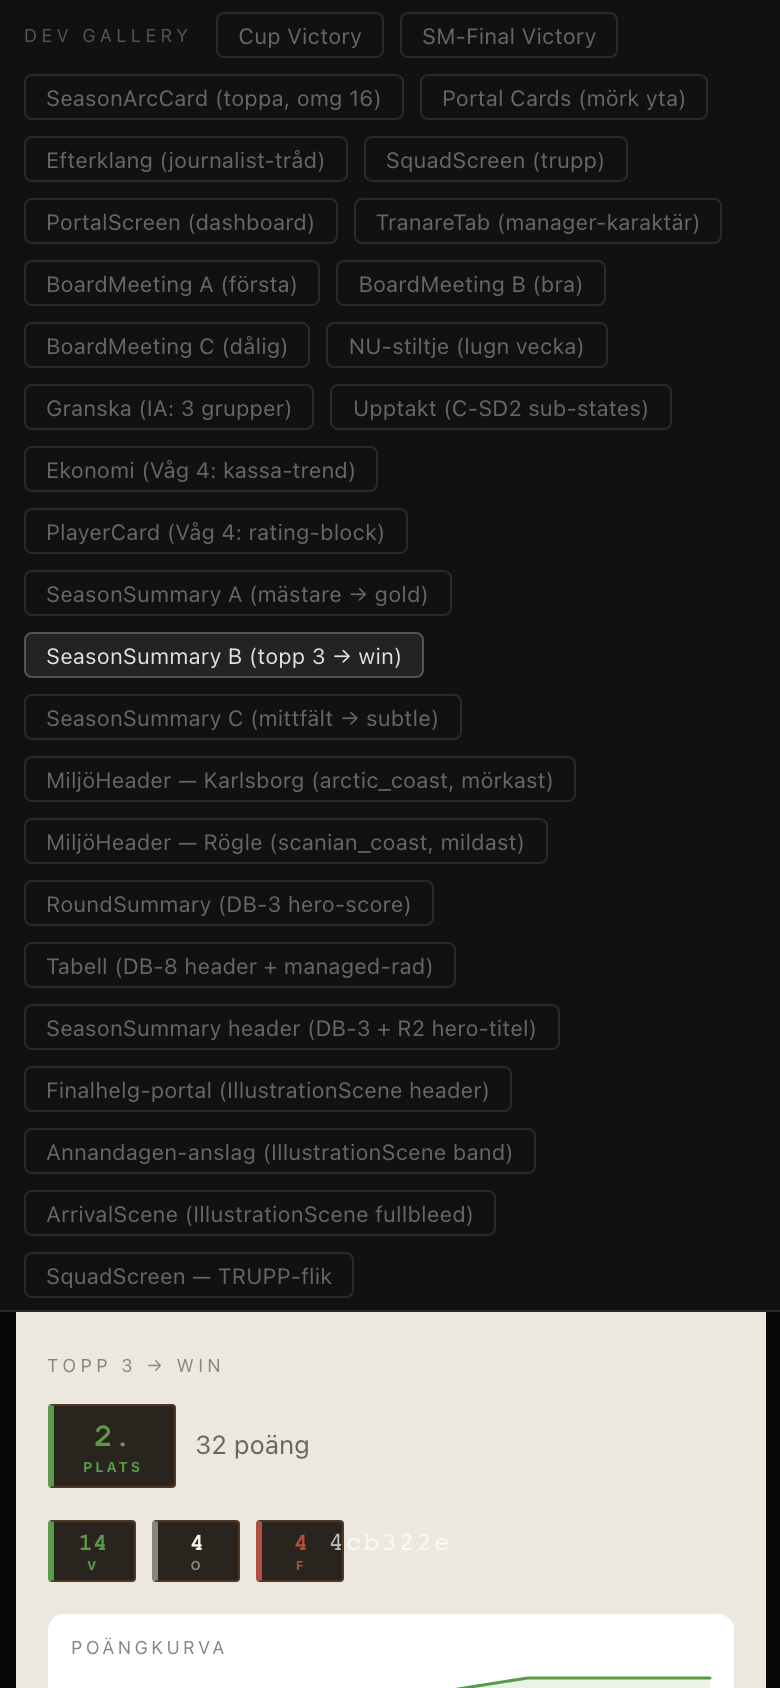
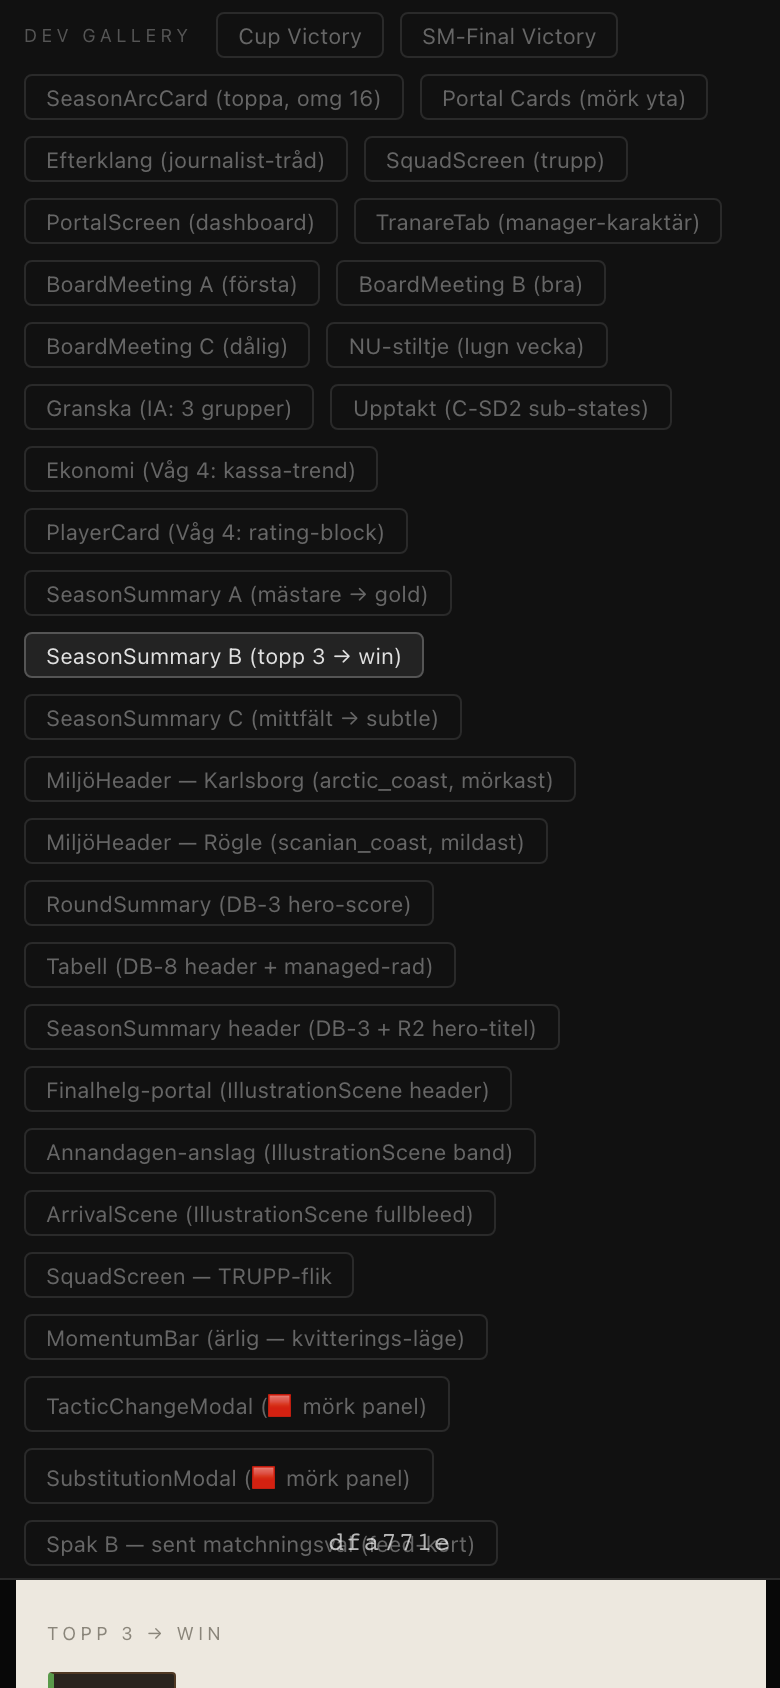
feat: Spår A dev-scener + bilaga — MomentumBar, 🟥-modaler, Spak B (32 ytor)
Pixelpass-underlag (SPEC-SPAK-AB §E.3): egna /dev/scenes för de nya MatchLive-ytorna
så de fångas i bilagan. Deterministisk fingerad state (cast MatchStep för baren,
makePlayer för sub-modalen). De två modal-scenerna får translateZ(0)-wrapper så
position:fixed fångas i ram (samma grepp som annandagen).

audit:scenes: 32 ytor, alla ✓ (renderar, ingen error-boundary). momentumbar visar
kvitterings-läget (nål=homeInitiative 0.63, brett band, amber brytpunkt); tacticmodal/
submodal mörk Stålvallen-panel; spakb feed-kortet.

OBS: perception-sign-off (animering, Spak B tänd i levande feed, glow, bar i full
stack) kräver Jacobs manuella playtest — MatchLiveScreen-rendering är playtest-
obligatorisk per CLAUDE.md (kod-simulation räcker inte för perception-tunga vyer).

build grönt (dev-scener är DEV-gated, ej i prod-bundle).

Changed region(s): [[0.0, 0.7701, 0.9846, 1.0]]

diff --git a/src/presentation/screens/dev/DevScenesScreen.tsx b/src/presentation/screens/dev/DevScenesScreen.tsx
@@ -32,10 +32,16 @@ import { PlayerCard } from '../../components/PlayerCard'
 import { ScoreBlock as ScoreBlockComp } from '../../components/primitives/ScoreBlock'
 import { Sparkline as SparklineComp } from '../../components/primitives/Sparkline'
 import { MiljoHeader } from '../../components/environment/MiljoHeader'
+import { MomentumBar } from '../../components/match/MomentumBar'
+import { TacticChangeModal } from '../../components/match/TacticChangeModal'
+import { SubstitutionModal } from '../../components/match/SubstitutionModal'
+import { SentValCard } from '../../components/match/SentValCard'
+import type { MatchStep } from '../../../domain/services/matchSimulator'
 import { useGameStore } from '../../store/gameStore'
 
 type SceneId = 'cup-victory' | 'sm-victory' | 'season-arc' | 'portal-cards' | 'efterklang' | 'squad' | 'portal' | 'tranare' | 'board-a' | 'board-b' | 'board-c' | 'stillness' | 'granska' | 'upptakt' | 'ekonomi' | 'playercard' | 'season-a' | 'season-b' | 'season-c' | 'miljoheader-karlsborg' | 'miljoheader-rogle'
   | 'roundsummary' | 'tabell' | 'season-header' | 'finalhelg' | 'annandagen' | 'arrival' | 'squad-trupp'
+  | 'momentumbar' | 'tacticmodal' | 'submodal' | 'spakb'
 
 const SCENES: { id: SceneId; label: string }[] = [
   { id: 'cup-victory',  label: 'Cup Victory' },
@@ -66,6 +72,10 @@ const SCENES: { id: SceneId; label: string }[] = [
   { id: 'annandagen',    label: 'Annandagen-anslag (IllustrationScene band)' },
   { id: 'arrival',       label: 'ArrivalScene (IllustrationScene fullbleed)' },
   { id: 'squad-trupp',   label: 'SquadScreen — TRUPP-flik' },
+  { id: 'momentumbar',   label: 'MomentumBar (ärlig — kvitterings-läge)' },
+  { id: 'tacticmodal',   label: 'TacticChangeModal (🟥 mörk panel)' },
+  { id: 'submodal',      label: 'SubstitutionModal (🟥 mörk panel)' },
+  { id: 'spakb',         label: 'Spak B — sent matchningsval (feed-kort)' },
 ]
 
 // ── Fingered data ────────────────────────────────────────────────────────────
@@ -715,6 +725,53 @@ export function DevScenesScreen() {
                 <div style={{ padding: '0 14px' }}><NextMatchPrimary game={g} /></div>
               </div>
             ))}
+          </div>
+        )}
+
+        {/* Spår A — MatchLive-ytor (deterministisk fingerad state) */}
+        {scene === 'momentumbar' && (() => {
+          const devStep = {
+            step: 50, minute: 67, homeScore: 2, awayScore: 2,
+            shotsHome: 9, shotsAway: 7, cornersHome: 4, cornersAway: 3, intensity: 'high',
+            homeInitiative: 0.63, postBreakUrgency: 0, postEqualizerMomentum: 0.5,
+            postEqualizerTeam: 'home', lateFactor: 0.5, matchProfile: 'open_game', events: [],
+          } as unknown as MatchStep
+          const history = [0.5, 0.52, 0.48, 0.45, 0.5, 0.58, 0.63]
+          return (
+            <div style={{ background: 'var(--bg-deepdark)', minHeight: '812px', padding: '40px 12px' }}>
+              <MomentumBar step={devStep} homeShort="EBK" awayShort="BGF" history={history} />
+            </div>
+          )
+        })()}
+
+        {scene === 'tacticmodal' && (
+          <div style={{ background: 'var(--bg-deepdark)', minHeight: '812px', transform: 'translateZ(0)', position: 'relative' }}>
+            <TacticChangeModal changesLeft={2} onChoose={() => {}} onClose={() => {}} />
+          </div>
+        )}
+
+        {scene === 'submodal' && (() => {
+          const P = PlayerPosition
+          const starters = [
+            makePlayer('s1', 'Erik', 'Lund', 27, P.Goalkeeper, 68, { fitness: 82 }),
+            makePlayer('s2', 'Johan', 'Berg', 24, P.Defender, 64, { fitness: 71 }),
+            makePlayer('s3', 'Anton', 'Sjö', 29, P.Half, 66, { fitness: 58 }),
+            makePlayer('s4', 'Nils', 'Holm', 22, P.Forward, 70, { fitness: 44 }),
+          ] as never[]
+          const bench = [
+            makePlayer('b1', 'Olle', 'Ek', 20, P.Forward, 61, { fitness: 90 }),
+            makePlayer('b2', 'Sven', 'Dahl', 31, P.Half, 63, { fitness: 88 }),
+          ] as never[]
+          return (
+            <div style={{ background: 'var(--bg-deepdark)', minHeight: '812px', transform: 'translateZ(0)', position: 'relative' }}>
+              <SubstitutionModal starters={starters} bench={bench} onConfirm={() => {}} onClose={() => {}} />
+            </div>
+          )
+        })()}
+
+        {scene === 'spakb' && (
+          <div style={{ background: 'var(--bg-deepdark)', minHeight: '812px', padding: '40px 0' }}>
+            <SentValCard minute={79} onPush={() => {}} onShut={() => {}} />
           </div>
         )}
       </div>

diff --git a/screenshots/audit/INDEX.md b/screenshots/audit/INDEX.md
@@ -4,7 +4,7 @@ Genererad av `scripts/capture-scenes.mjs` ur /dev/scenes (deterministisk fingera
 Jacob godkänner det visuella svepet via denna bilaga — ingen live-session krävs.
 Regenerera: starta servern + `node scripts/capture-scenes.mjs`.
 
-28 ytor.
+32 ytor.
 
 ---
 
@@ -175,3 +175,27 @@ Regenerera: starta servern + `node scripts/capture-scenes.mjs`.
 `squad-trupp`
 
 ![squad-trupp](./squad-trupp.png)
+
+### MomentumBar (ärlig — kvitterings-läge, nål=homeInitiative)
+
+`momentumbar`
+
+![momentumbar](./momentumbar.png)
+
+### TacticChangeModal (🟥 → mörk Stålvallen-panel)
+
+`tacticmodal`
+
+![tacticmodal](./tacticmodal.png)
+
+### SubstitutionModal (🟥 → mörk Stålvallen-panel)
+
+`submodal`
+
+![submodal](./submodal.png)
+
+### Spak B — sent matchningsval (feed-kort, amber)
+
+`spakb`
+
+![spakb](./spakb.png)
